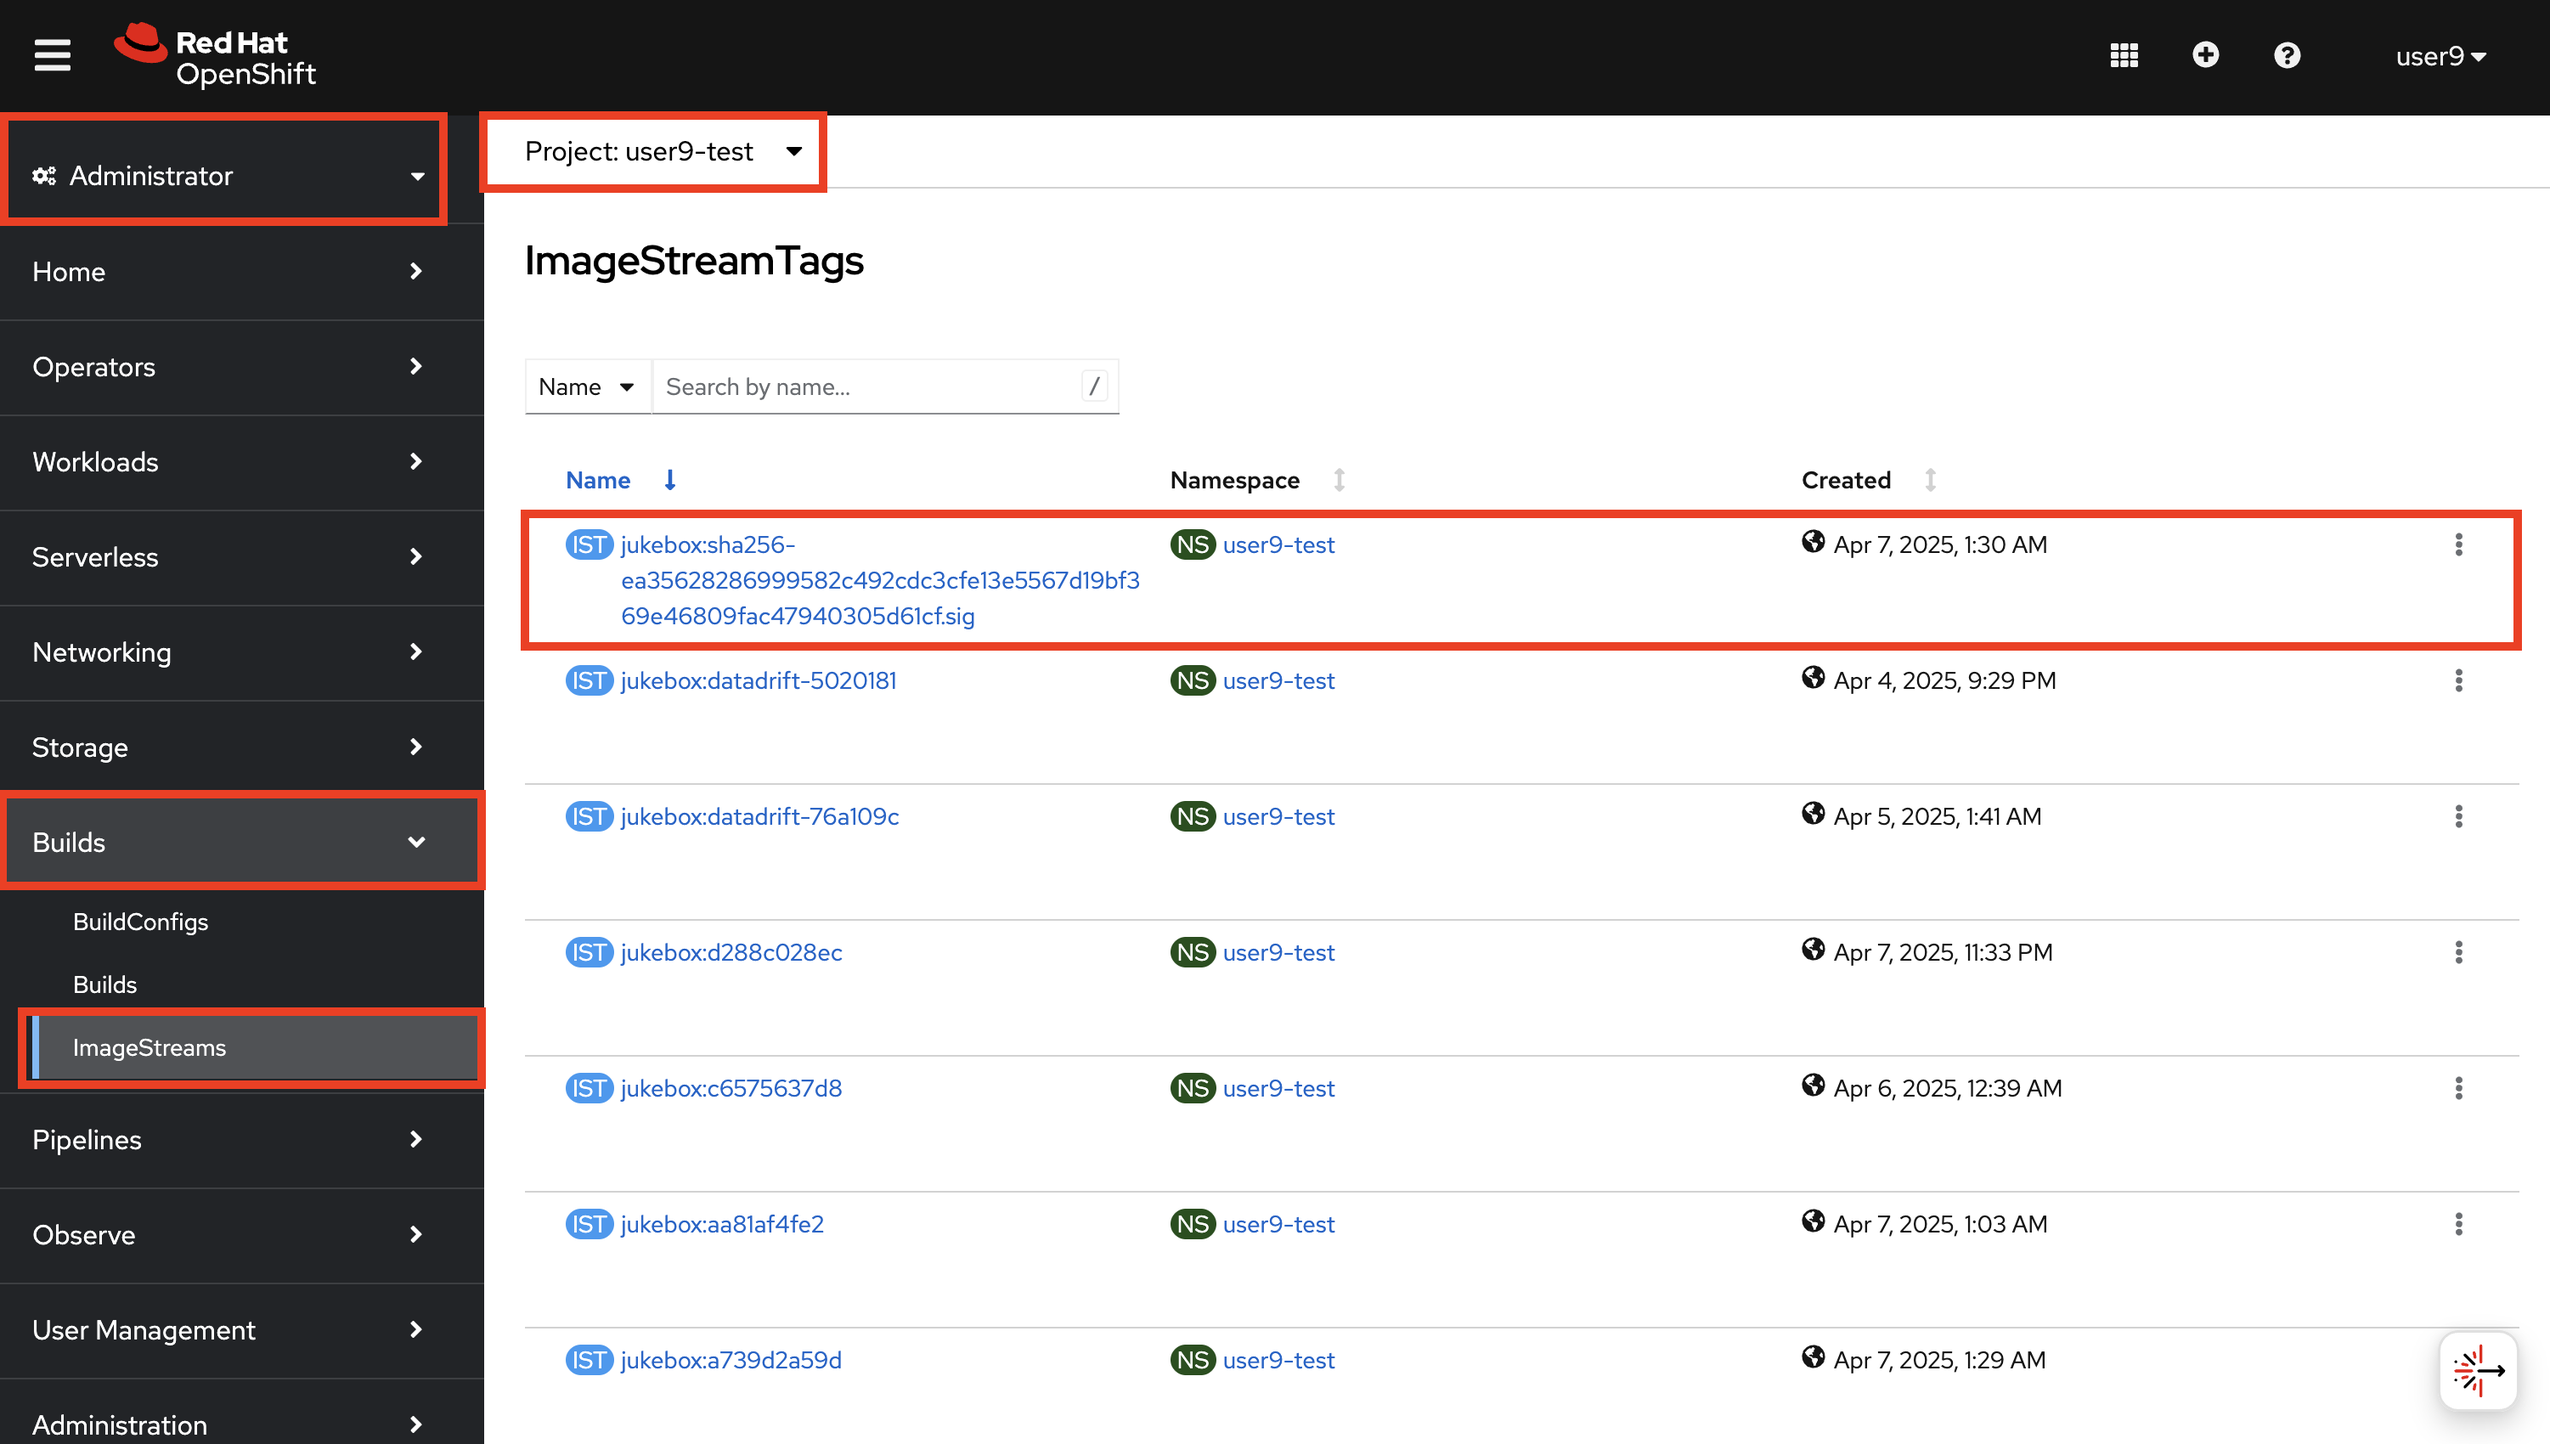
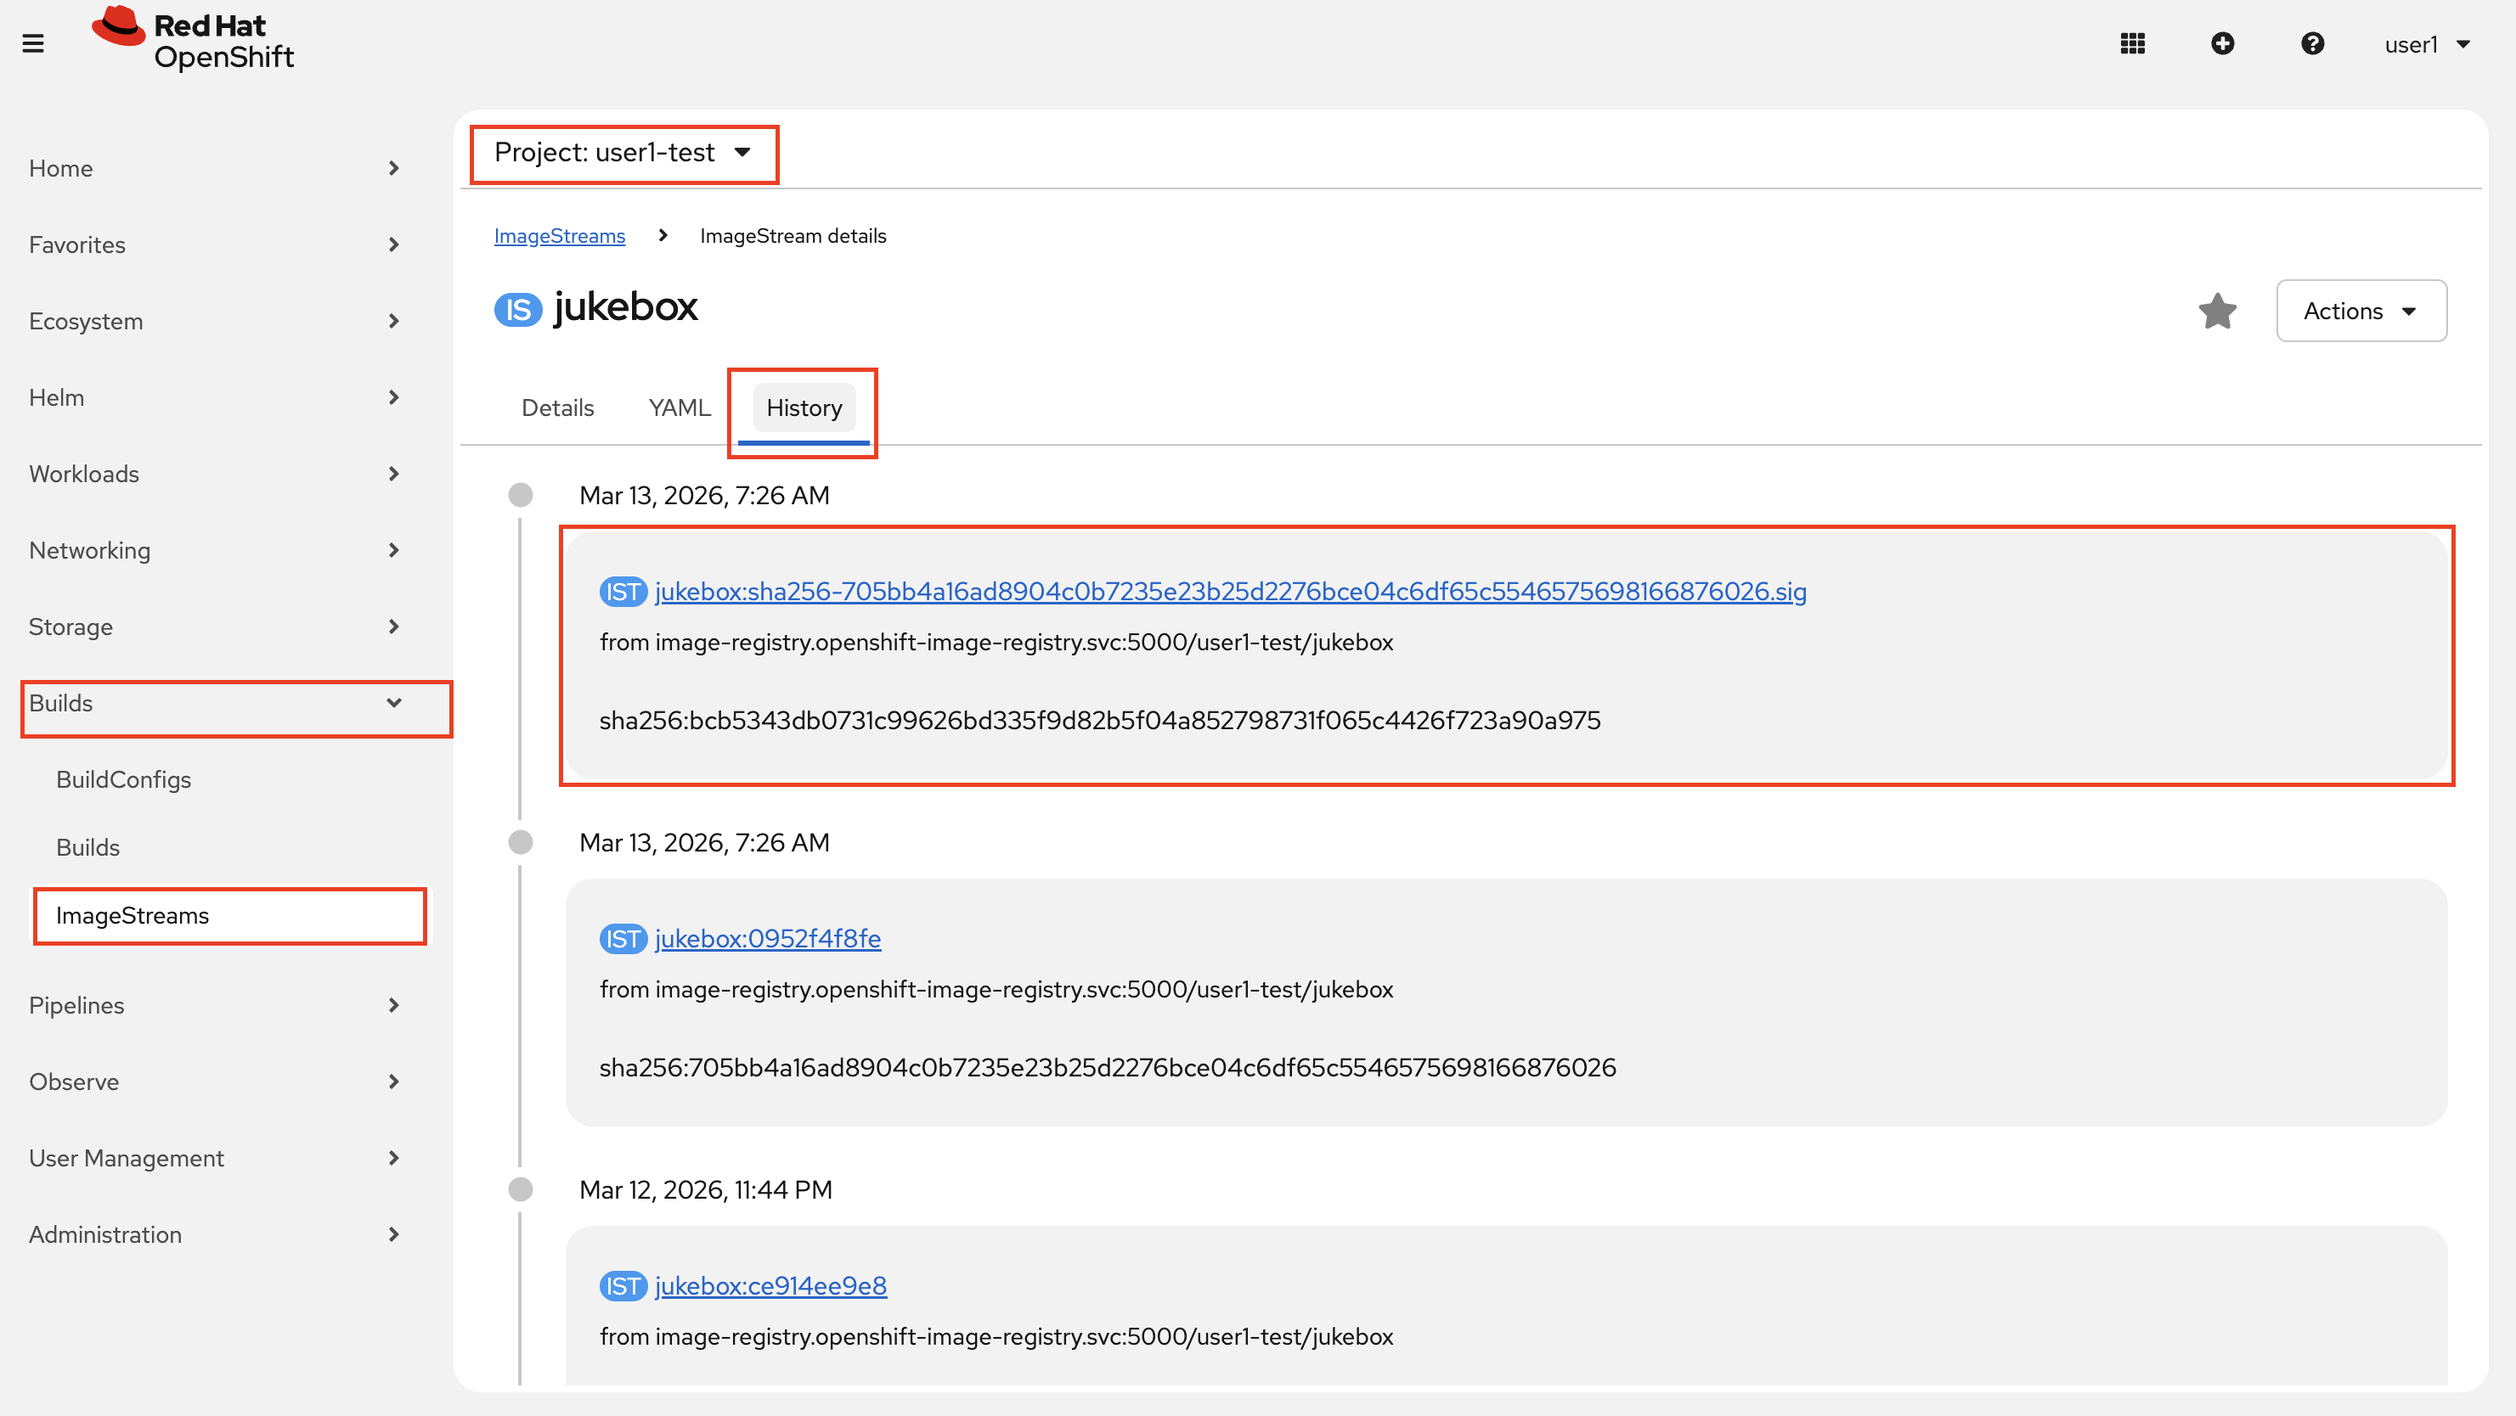
🎶MLOps Enablement RHOAI 3.3 updates🎶

diff --git a/docs/8-the-supporting-acts/9-sboms.md b/docs/8-the-supporting-acts/9-sboms.md
@@ -95,7 +95,7 @@ _This step makes more sense when you use an external image registry and share im
     git push
     ```
 
-8. After the task successfully finish, go to `OpenShift UI` > `Builds` > `ImageStreams` and `jukebox`. You'll see a tag ending with `.sbom` and `.att` which shows you that an attestation for the SBOM predicate attached. With this, the SBOM is signed (and therefore tamper-proof) as it is within an attestation, and consumers can validate its authenticity.
+8. After the task successfully finish, go to `OpenShift UI` > `Builds` > `ImageStreams` and `jukebox`. In the `History` tab, you'll see a tag ending with `.sbom` and `.att` which shows you that an attestation for the SBOM predicate attached. With this, the SBOM is signed (and therefore tamper-proof) as it is within an attestation, and consumers can validate its authenticity.
 
     ![sbomatt.png](./images/sbomatt.png)
 

diff --git a/docs/8-the-supporting-acts/8-signing.md b/docs/8-the-supporting-acts/8-signing.md
@@ -79,9 +79,9 @@ _This step makes more sense when you use an external image registry and share im
     git push
     ```
 
-8. After the task successfully finish, in the `Administrator` view, go to `OpenShift UI` > `Builds` > `ImageStreams` and select `jukebox`. You'll see a tag ending with `.sig` which shows you that this image is signed. 
+8. After the task successfully finish, go to `OpenShift UI` > `Builds` > `ImageStreams` and select `jukebox`. Go to `History` and there, you'll see a tag ending with `.sig` which shows you that this image is signed. 
 
-    ![cosign-image-signing](images/cosign-image-signing.png)
+    ![cosign-image-signing](./images/cosign-image-signing.png)
 
 9. Let's verify the signed image with the public key. Make sure you use the right `VERSION` for the image. (`c6575637d8` in this case)
 
